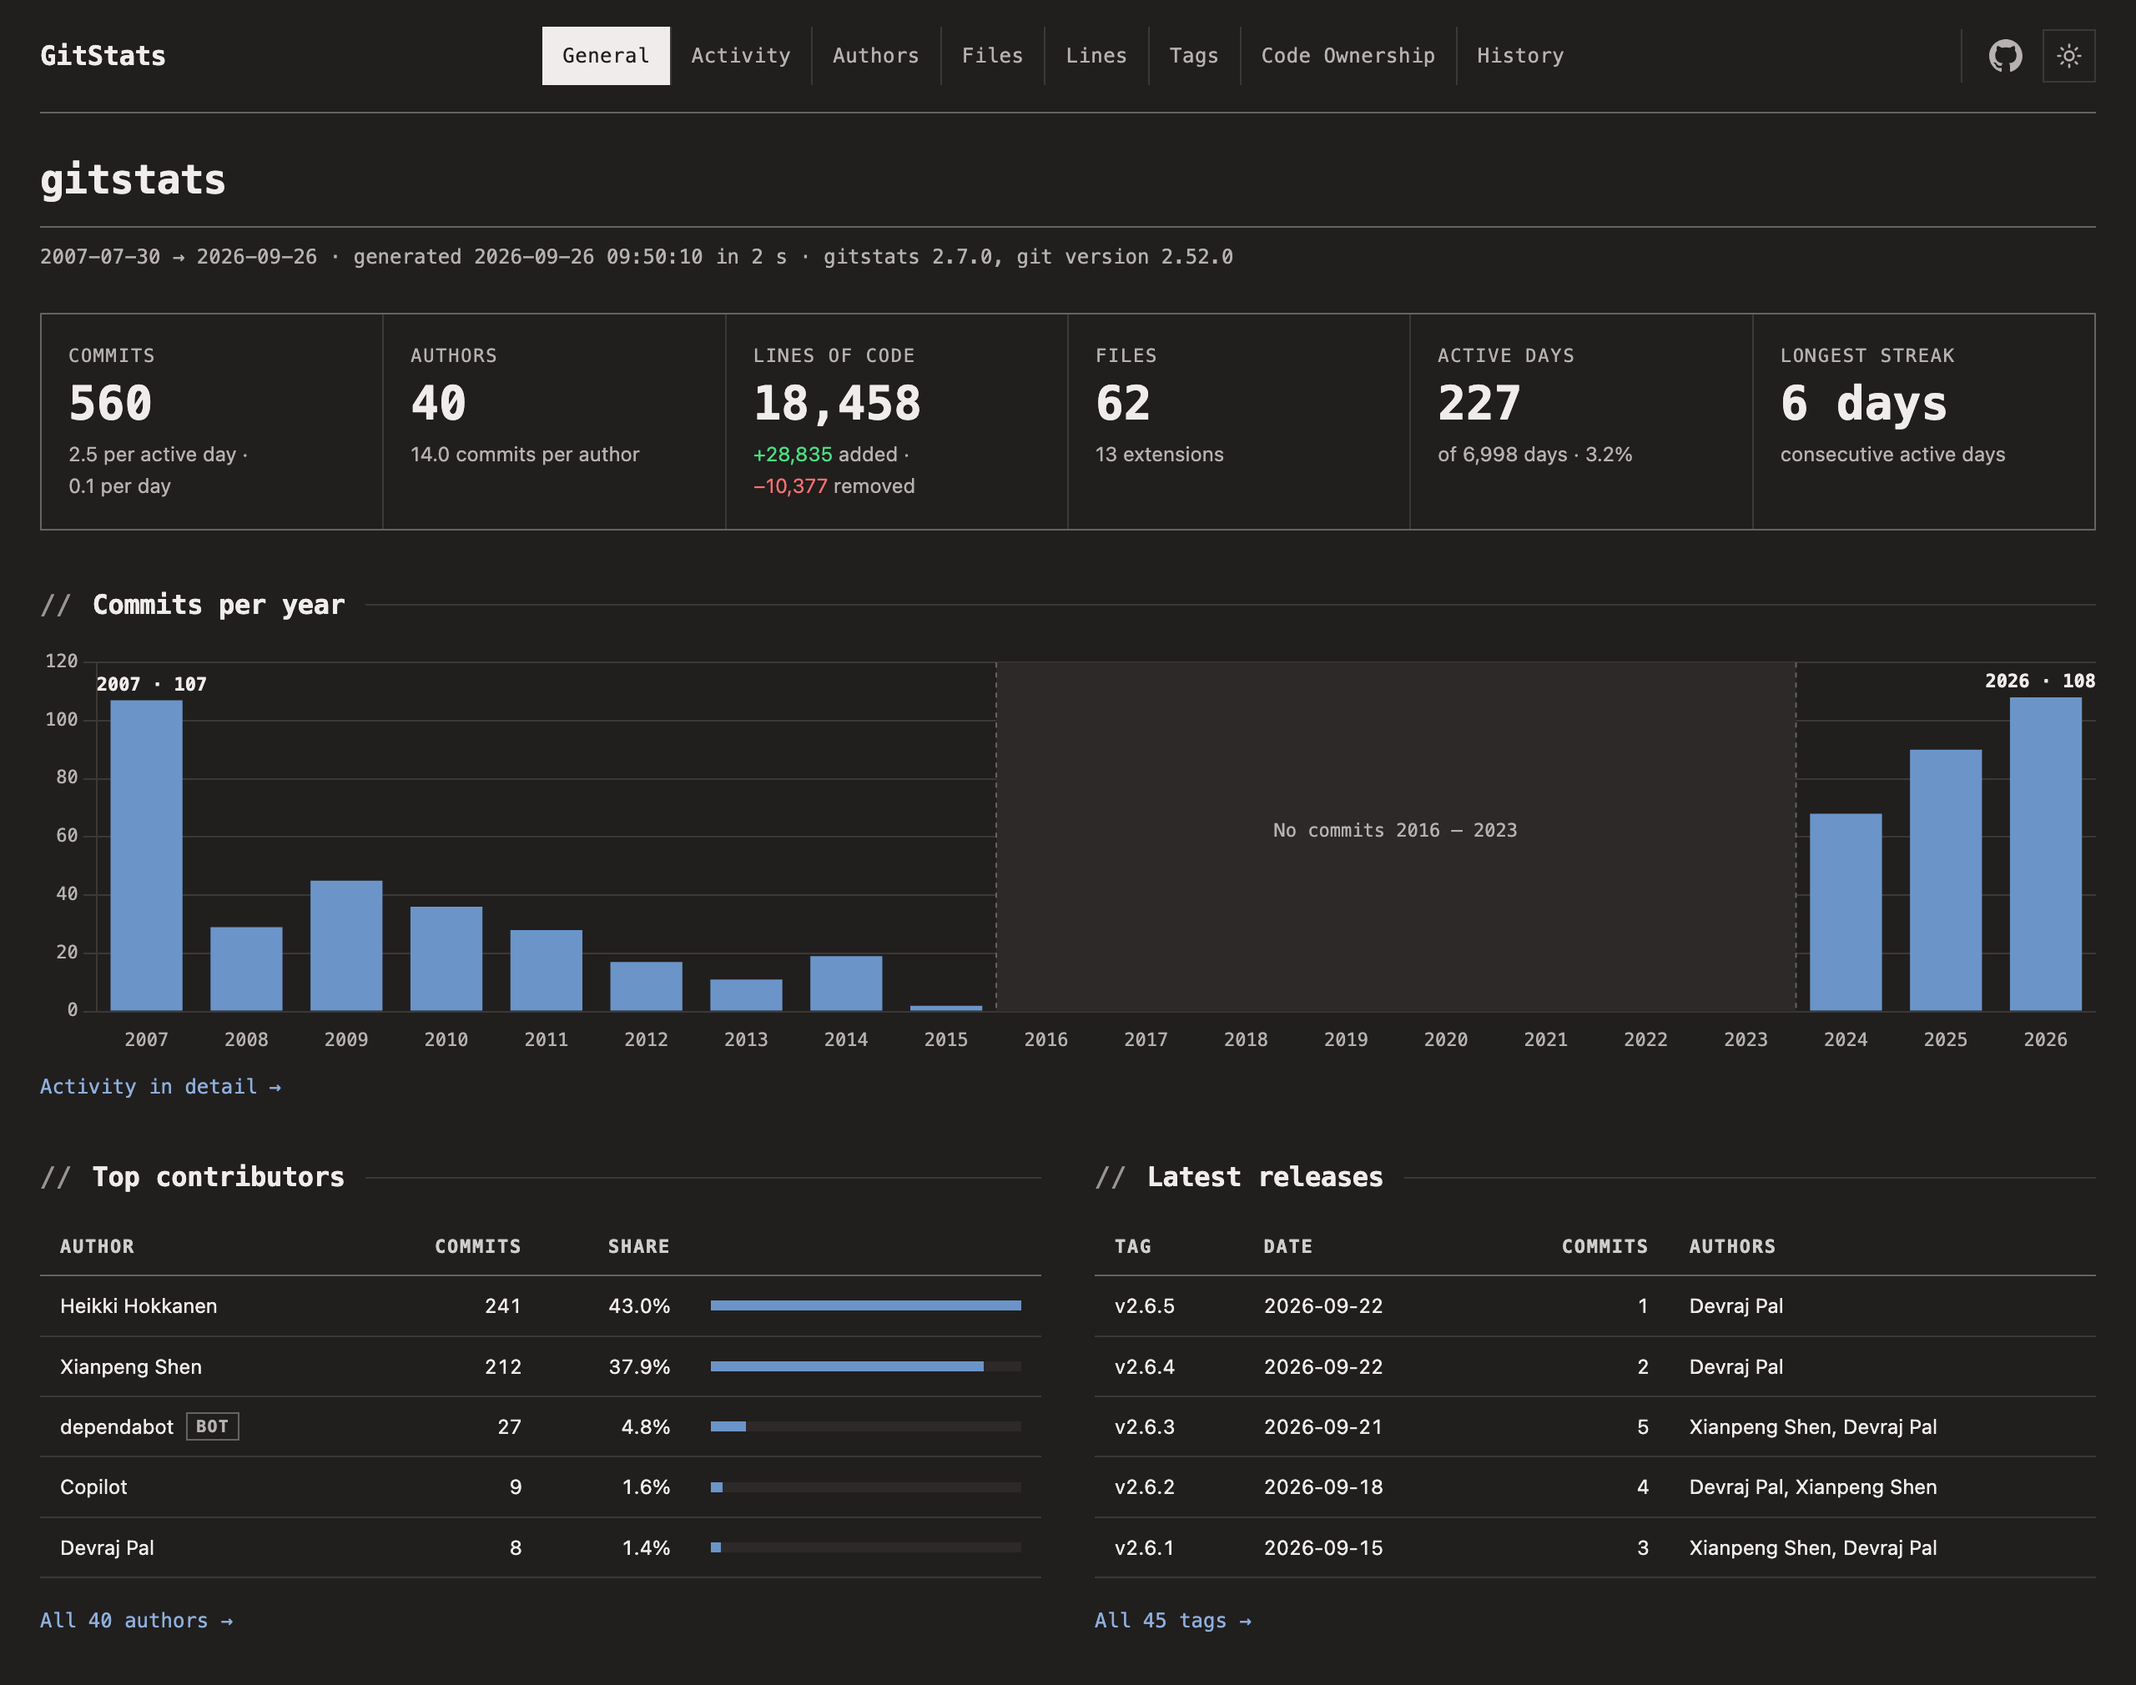
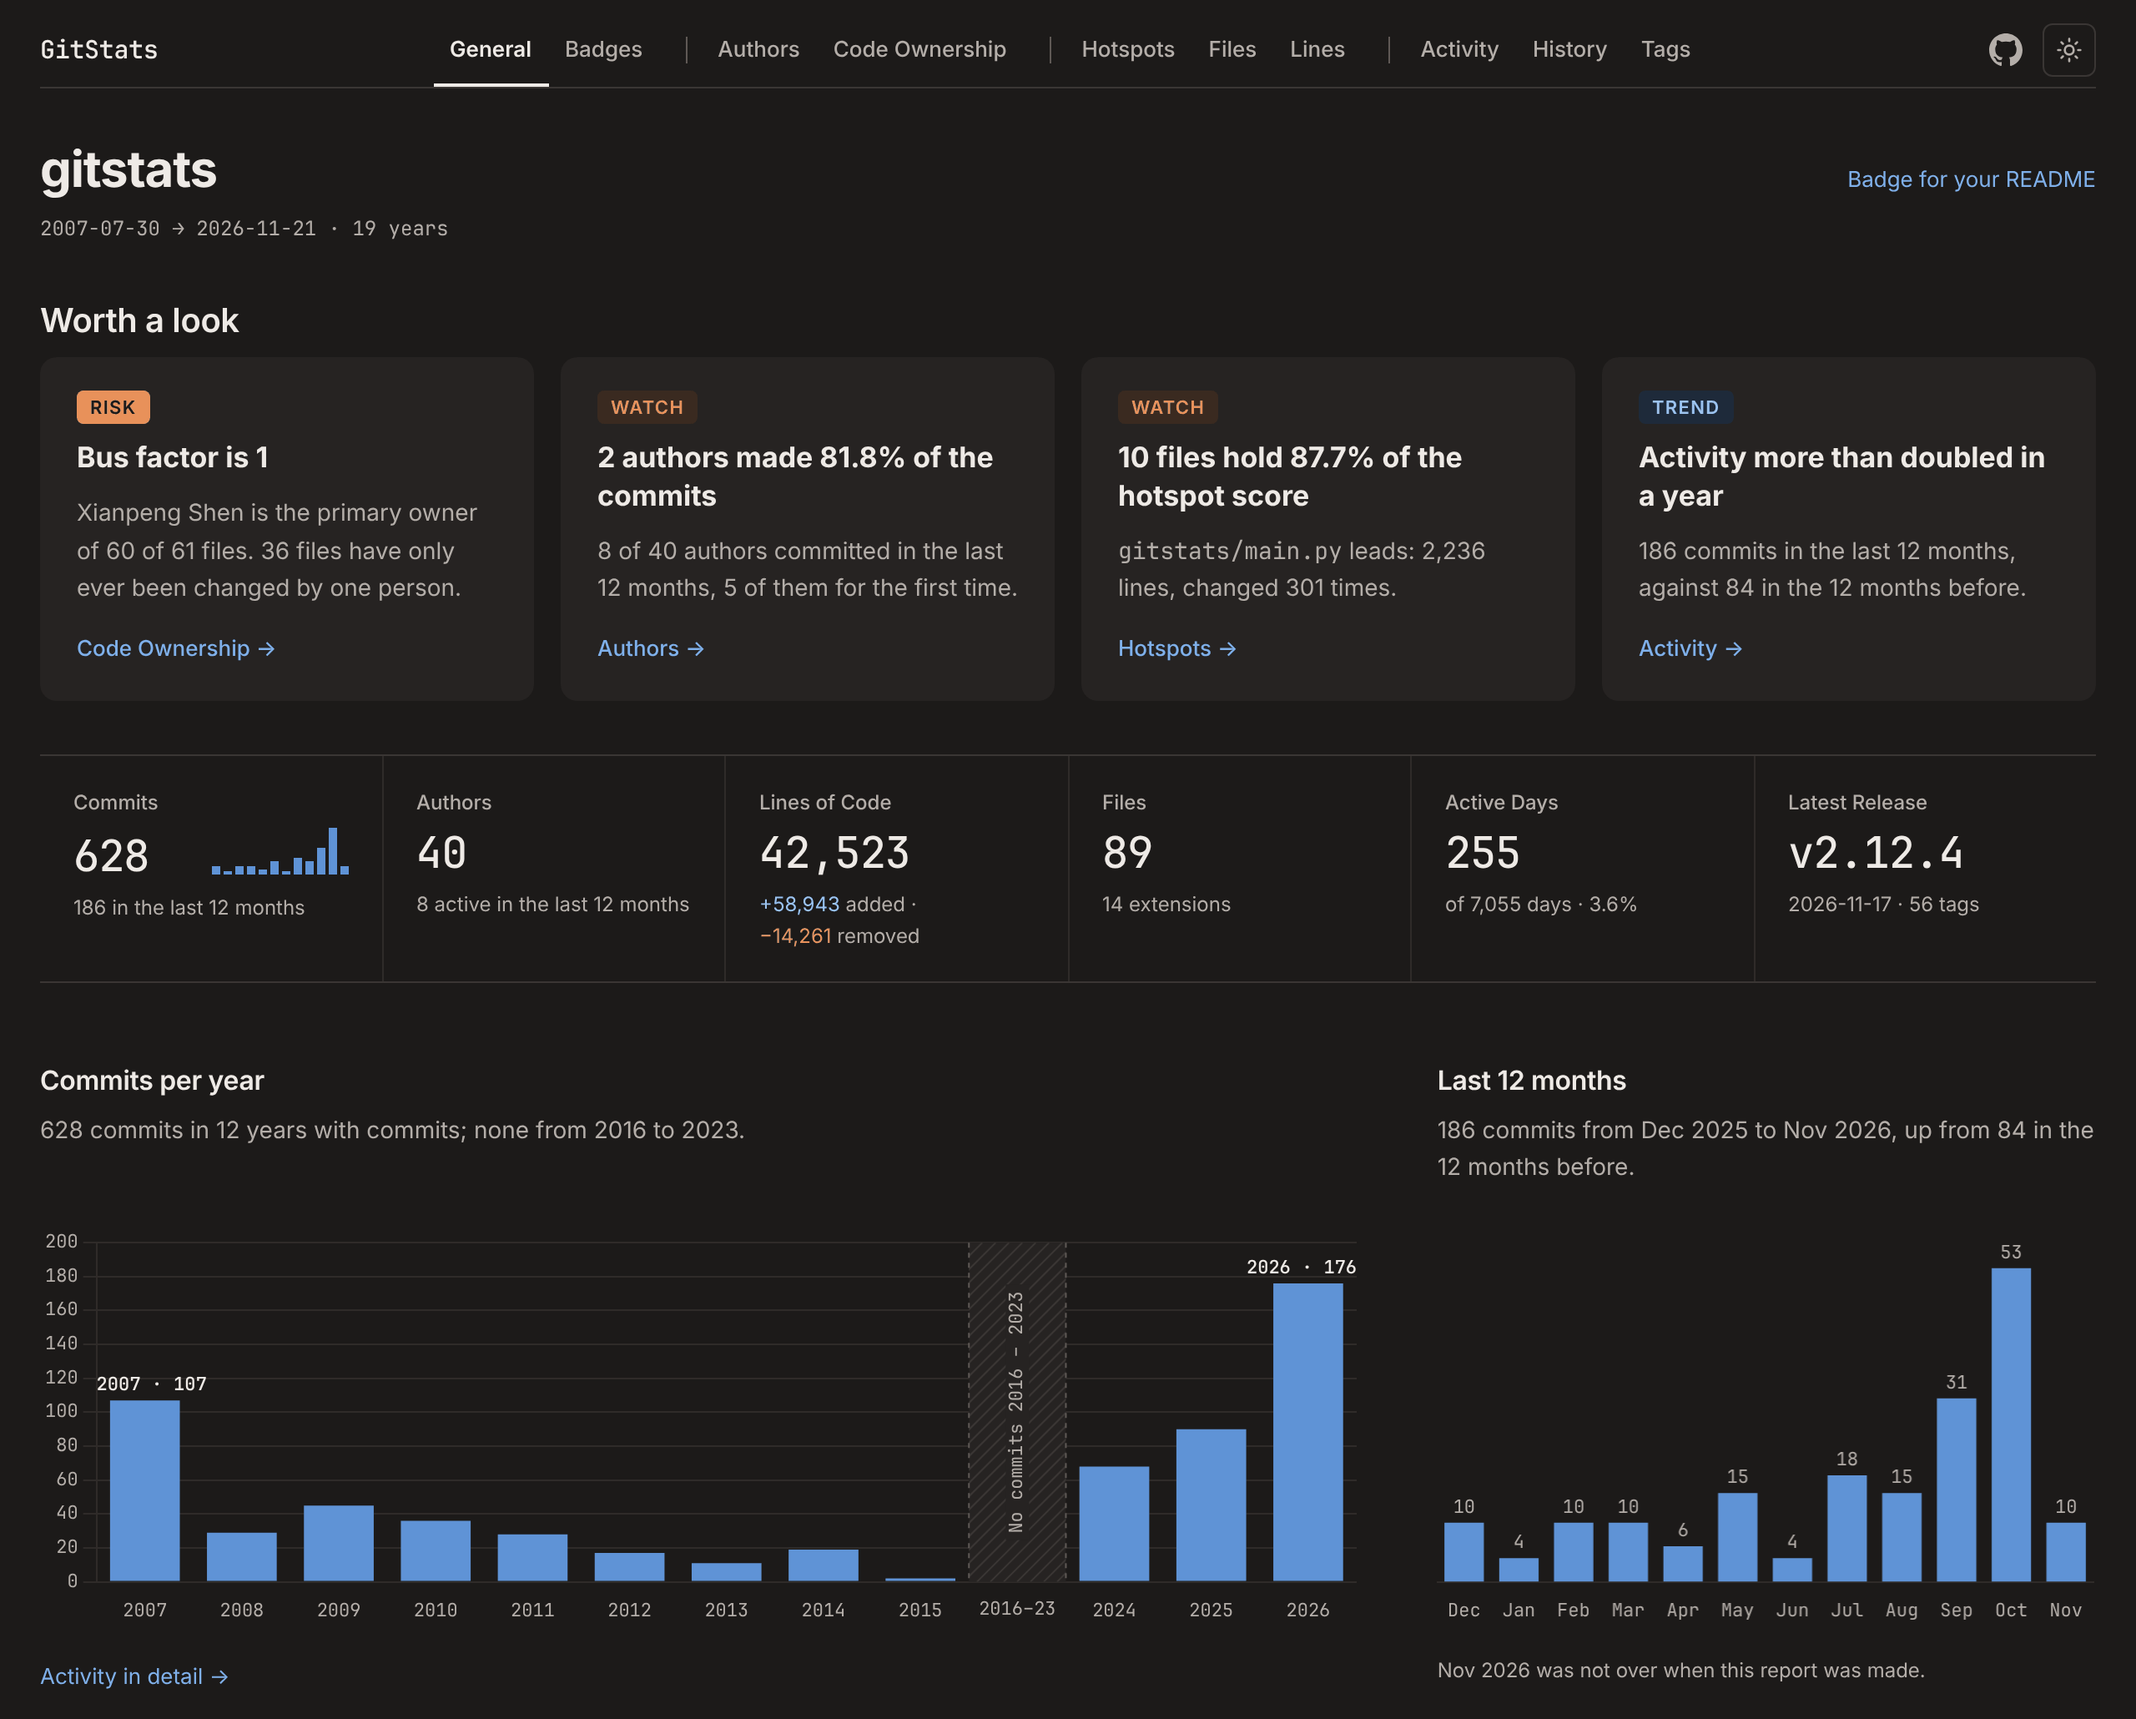
docs(readme): screenshots of the new report, and fix the overview's chart spacing
The README showed the report as it looked before #373: monospace headings
with "//", boxed tiles, an inverted nav tab. Retaken on gitstats' own
history, as the live example is, at 1280px wide and twice the density,
light and dark:

- report-{light,dark}.png: the overview, from the nav to the charts.
- report-pages-{light,dark}.png (new): the Activity and Hotspots pages,
  and the overview on a phone, under the overview in the README.

Each is a 256-color PNG (130 to 190 KB).

Taking them showed a regression of #373: side by side, the overview's two
chart sections share their rows through a subgrid, so the row gap it gave
.overview-charts opened 48px between each heading, sentence and chart. The
gap is now between the columns only, and between the sections when they
stack on a narrow screen. A test keeps the row gap out of the rule.

diff --git a/gitstats/gitstats.css b/gitstats/gitstats.css
@@ -333,7 +333,9 @@ dd {
 .overview-charts {
 	display: grid;
 	grid-template-columns: minmax(0, 2fr) minmax(0, 1fr);
-	gap: var(--space-7);
+	/* no row gap: side by side, the rows are the sections' heading, sentence,
+	   chart and footnote (see the subgrid below) */
+	column-gap: var(--space-7);
 	margin-top: var(--space-7);
 }
 
@@ -364,8 +366,10 @@ dd {
 }
 
 @media (max-width: 900px) {
+	/* stacked, the rows are the two sections */
 	.overview-charts {
 		grid-template-columns: minmax(0, 1fr);
+		row-gap: var(--space-7);
 	}
 
 	/* a chart that was a third of the width is now all of it */

diff --git a/tests/test_report_creator.py b/tests/test_report_creator.py
@@ -4854,3 +4854,16 @@ def test_timezones_list_the_busiest_then_the_rest_with_all_folded(mock_data_coll
     assert "<summary>All 12 offsets, west to east</summary>" in folded
     assert folded.index("UTC-08:00") < folded.index("UTC+00:00") < folded.index("UTC+03:00")
     assert "Remaining" not in folded
+
+
+def test_overview_charts_have_no_row_gap_side_by_side():
+    """Side by side, the two chart sections share their rows through a subgrid:
+    a row gap would open between each heading, sentence and chart."""
+    css_path = os.path.join(os.path.dirname(__file__), "..", "gitstats", "gitstats.css")
+    with open(css_path, encoding="utf-8") as f:
+        css = f.read()
+    rule = css[css.index(".overview-charts {") :]
+    rule = rule[: rule.index("}")]
+    assert "column-gap: var(--space-7);" in rule
+    assert "\tgap:" not in rule
+    assert "row-gap" not in rule

diff --git a/README.rst b/README.rst
@@ -99,6 +99,18 @@ Example
    :width: 100%
    :target: https://shenxianpeng.dev/gitstats/index.html
 
+The other pages follow the same layout, and the report works on a phone:
+
+.. image:: https://raw.githubusercontent.com/shenxianpeng/gitstats/main/docs/source/report-pages-dark.png#gh-dark-mode-only
+   :alt: The Activity and Hotspots pages of a gitstats report, and its overview on a phone
+   :width: 100%
+   :target: https://shenxianpeng.dev/gitstats/activity.html
+
+.. image:: https://raw.githubusercontent.com/shenxianpeng/gitstats/main/docs/source/report-pages-light.png#gh-light-mode-only
+   :alt: The Activity and Hotspots pages of a gitstats report, and its overview on a phone
+   :width: 100%
+   :target: https://shenxianpeng.dev/gitstats/activity.html
+
 Check out the `GitStats Gallery <https://shenxianpeng.dev/gitstats/gallery/>`_ for live reports on the world's largest open-source projects — auto-generated weekly — and its `AI-assisted commits <https://shenxianpeng.dev/gitstats/gallery/ai.html>`_ page: how many of each project's commits name an AI coding assistant, quarter by quarter. Its counts can be downloaded as `JSON <https://shenxianpeng.dev/gitstats/gallery/ai.json>`_ or `CSV <https://shenxianpeng.dev/gitstats/gallery/ai.csv>`_, and each quarter is kept as it was first published. Its `Organizations <https://shenxianpeng.dev/gitstats/gallery/organizations.html>`_ page adds up which organizations' addresses commit to the gallery's projects, and each organization has a page and a badge, such as `google.com <https://shenxianpeng.dev/gitstats/gallery/orgs/google.com.html>`_. Each project has a page of how it compares with the others of its ecosystem, such as `Kubernetes <https://shenxianpeng.dev/gitstats/gallery/kubernetes/compare.html>`_. The top of each project's report says what stands out about it next to the others: up to three facts, such as the days with a commit or how far its AI-assisted commits rose in a year, said only where it is in the top or bottom 15%. The repositories are listed by ecosystem in `gallery/repos.yml <https://github.com/shenxianpeng/gitstats/blob/main/gallery/repos.yml>`_; to suggest one, `open an issue <https://github.com/shenxianpeng/gitstats/issues/new?template=gallery.yml>`_. Each ecosystem has its `ranking by AI-assisted commits <https://shenxianpeng.dev/gitstats/gallery/ecosystems/>`_, also as JSON (`fields <https://gitstats.readthedocs.io/en/latest/gallery.html>`_).
 
 .. image:: https://raw.githubusercontent.com/shenxianpeng/gitstats/main/docs/source/demo.gif
